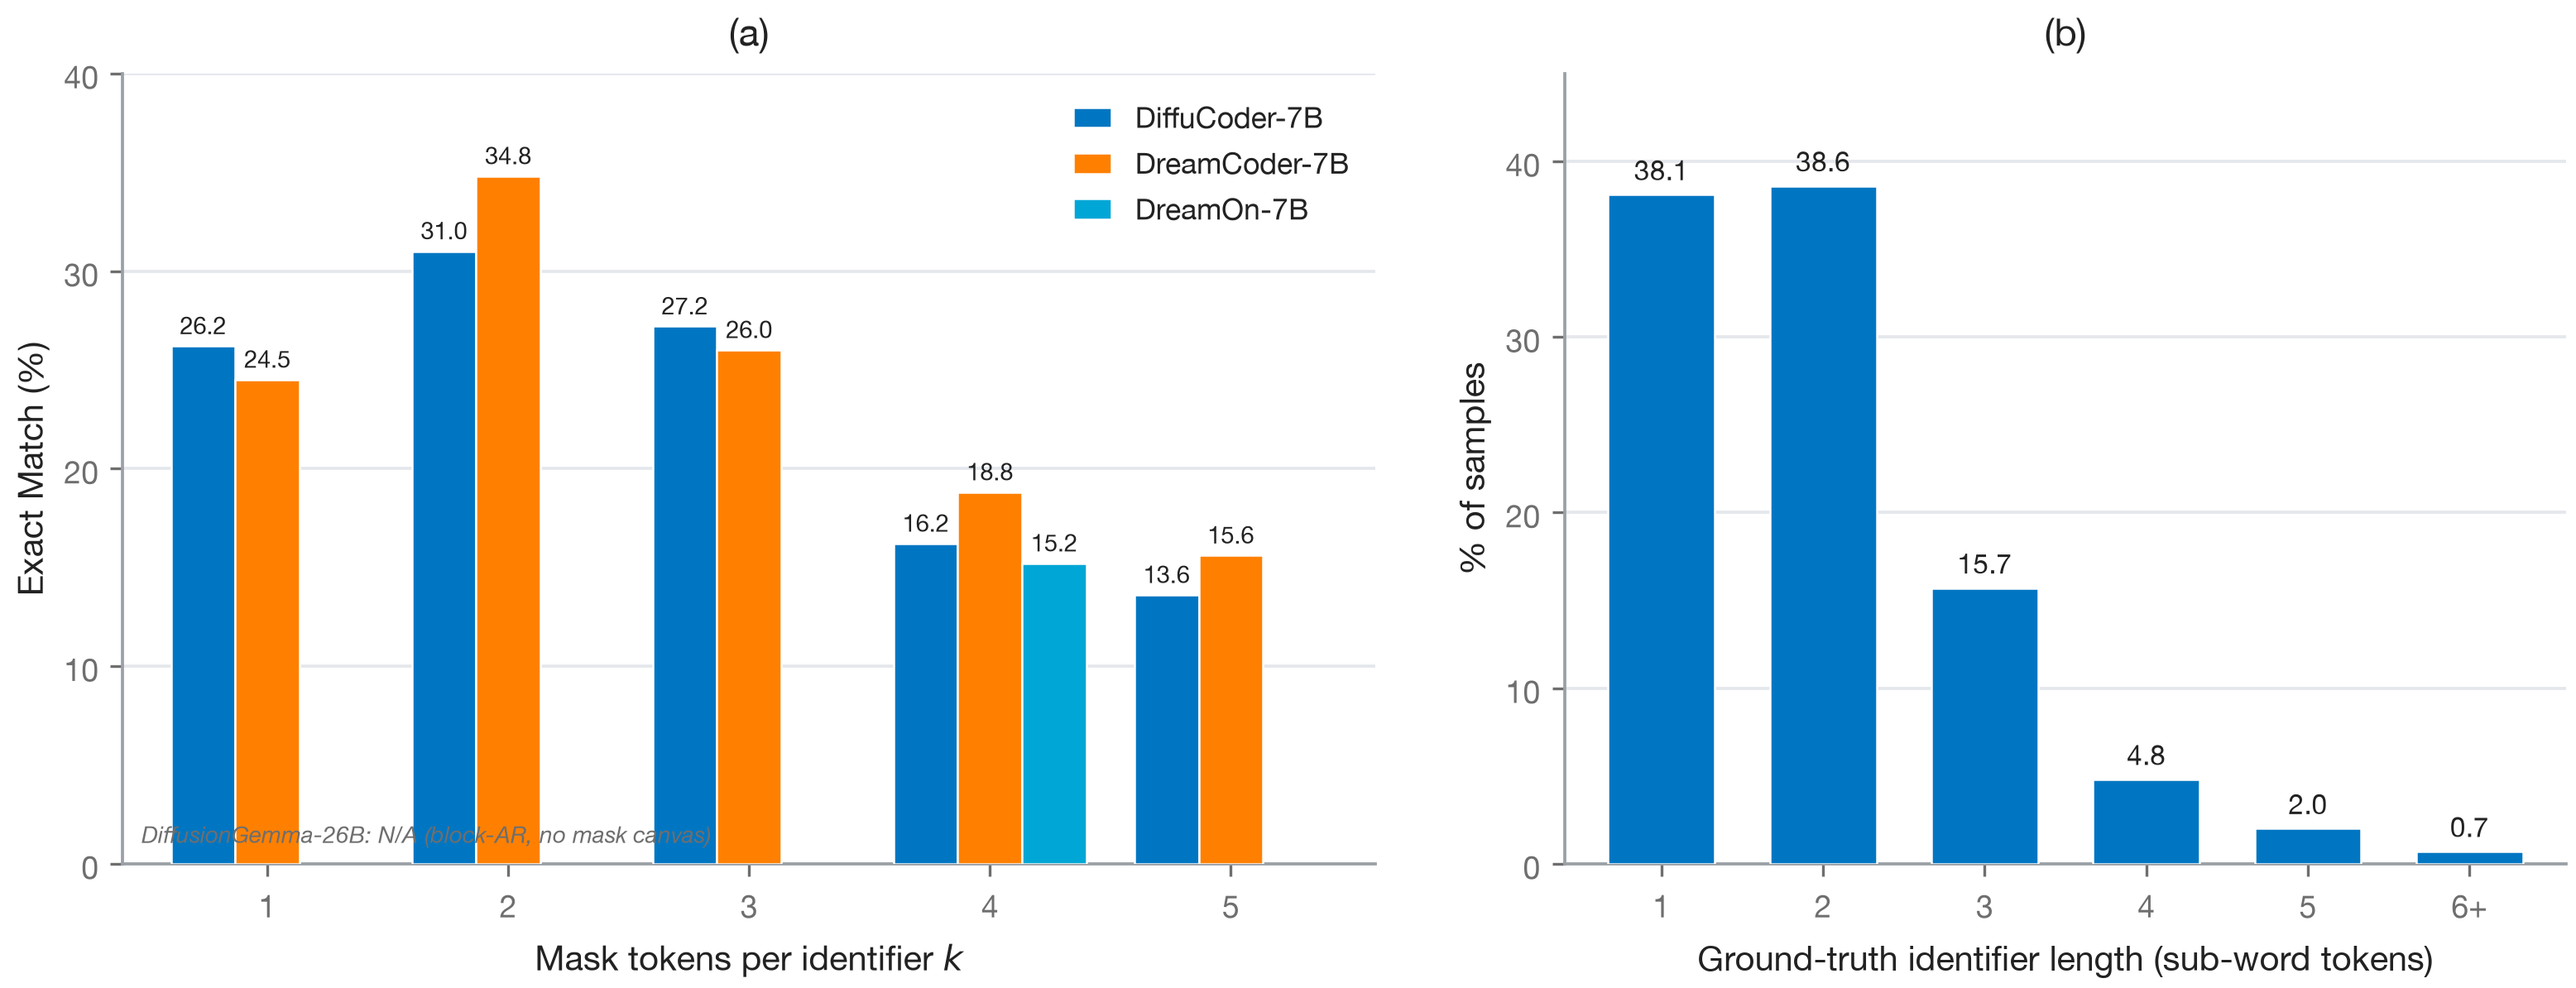
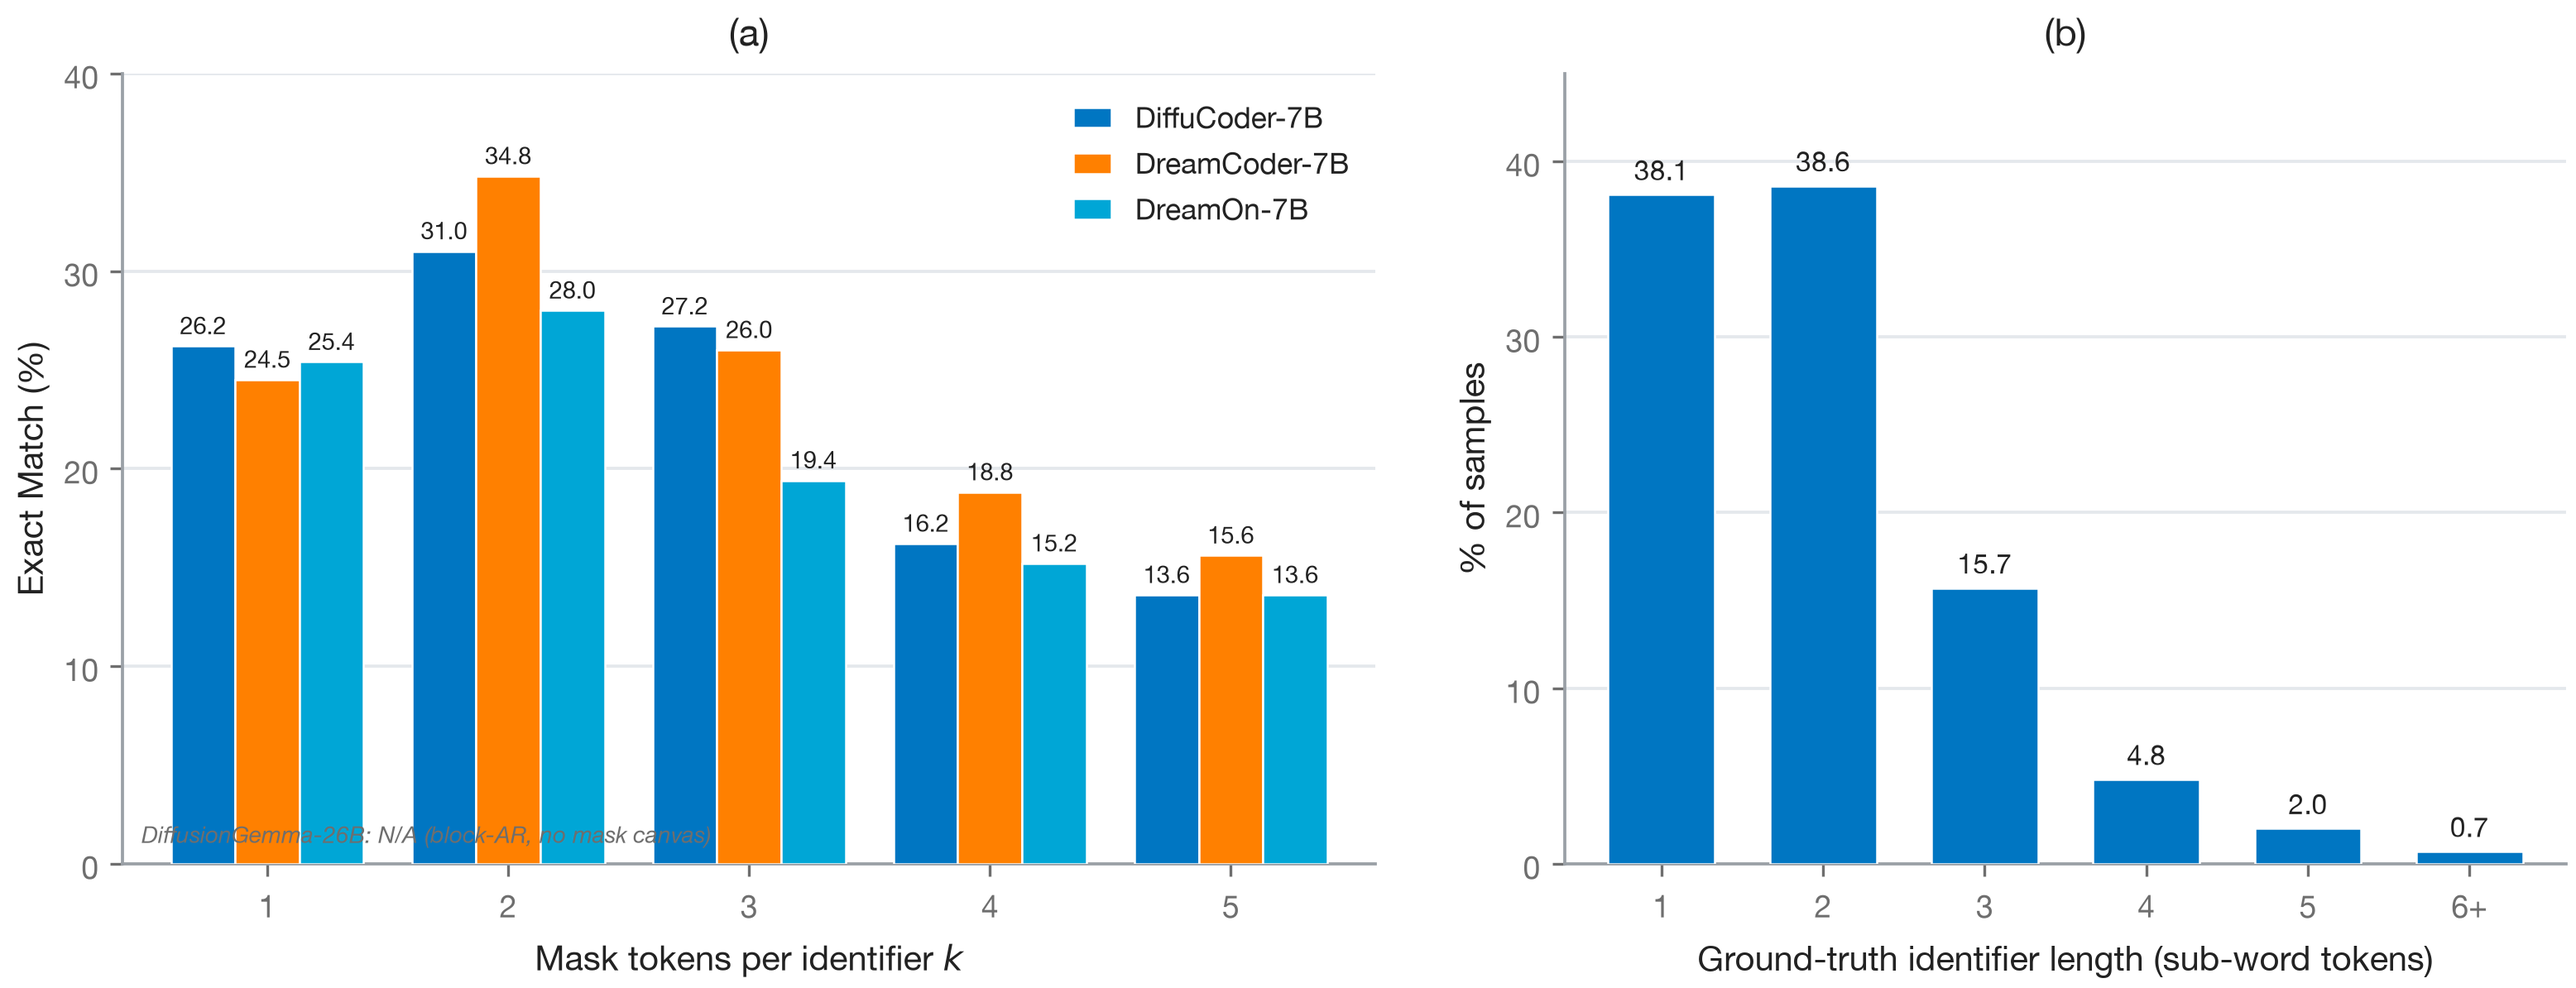
Fig 5 (mask ablation): add DreamOn-7B k-sweep (k2-4 full, k1/k5 partial)
DreamOn first-site EM: k=1 25.4(partial) / k=2 28.0 / k=3 19.4 / k=4 15.2 / k=5 13.6(partial).
Bake into fig06 as a published series with the data-driven loader still able to
override per-k once the finished k=1/k=5 runs are downloaded.

diff --git a/figures/rebuilt/fig06_mask_count_ablation.py b/figures/rebuilt/fig06_mask_count_ablation.py
@@ -65,15 +65,20 @@ def load_dreamon_em():
     return [by_k.get(k, np.nan) for k in K]
 
 
-EM_DREAMON = load_dreamon_em()
-SERIES = [("DiffuCoder-7B", EM_DIFFU, BLUE), ("DreamCoder-7B", EM_DREAM, ORANGE)]
-if EM_DREAMON is not None:
-    SERIES.append(("DreamOn-7B", EM_DREAMON, CYAN))
-    print("DreamOn EM(k):", EM_DREAMON)
-else:
-    print(f"[note] DreamOn ablation summary not found ({DREAMON_SUMMARY}); "
-          f"plotting DiffuCoder/DreamCoder only.\n"
-          f"       run experiments/1t5t_exp/part2_dreamon_mask_ablation.py on DAIC.")
+# DreamOn-7B first-site EM per k (peaks at k=2 like the fixed-canvas dLLMs).
+# k=2,3,4 are the full 1000-sample runs (results/1t5t_exp/dreamon_mask_ablation_raw_{k}tok_*.csv);
+# k=1 and k=5 are PRELIMINARY, read off an in-progress DAIC run (k=1 @700/1000,
+# k=5 @500/1000). load_dreamon_em() overrides any of these per-k once the real
+# per-k summary CSV is present locally, so a finished run upgrades the figure.
+EM_DREAMON_PUBLISHED = [25.4, 28.0, 19.4, 15.2, 13.6]   # k = 1..5
+_loaded = load_dreamon_em()
+EM_DREAMON = list(EM_DREAMON_PUBLISHED)
+if _loaded is not None:
+    EM_DREAMON = [(_loaded[i] if _loaded[i] == _loaded[i] else EM_DREAMON_PUBLISHED[i])
+                  for i in range(len(K))]   # real per-k data wins; NaN -> published
+SERIES = [("DiffuCoder-7B", EM_DIFFU, BLUE), ("DreamCoder-7B", EM_DREAM, ORANGE),
+          ("DreamOn-7B", EM_DREAMON, CYAN)]
+print("DreamOn EM(k):", EM_DREAMON)
 
 # Panel (b): GT identifier length distribution (% of samples)
 LEN_LABELS = ["1", "2", "3", "4", "5", "6+"]
